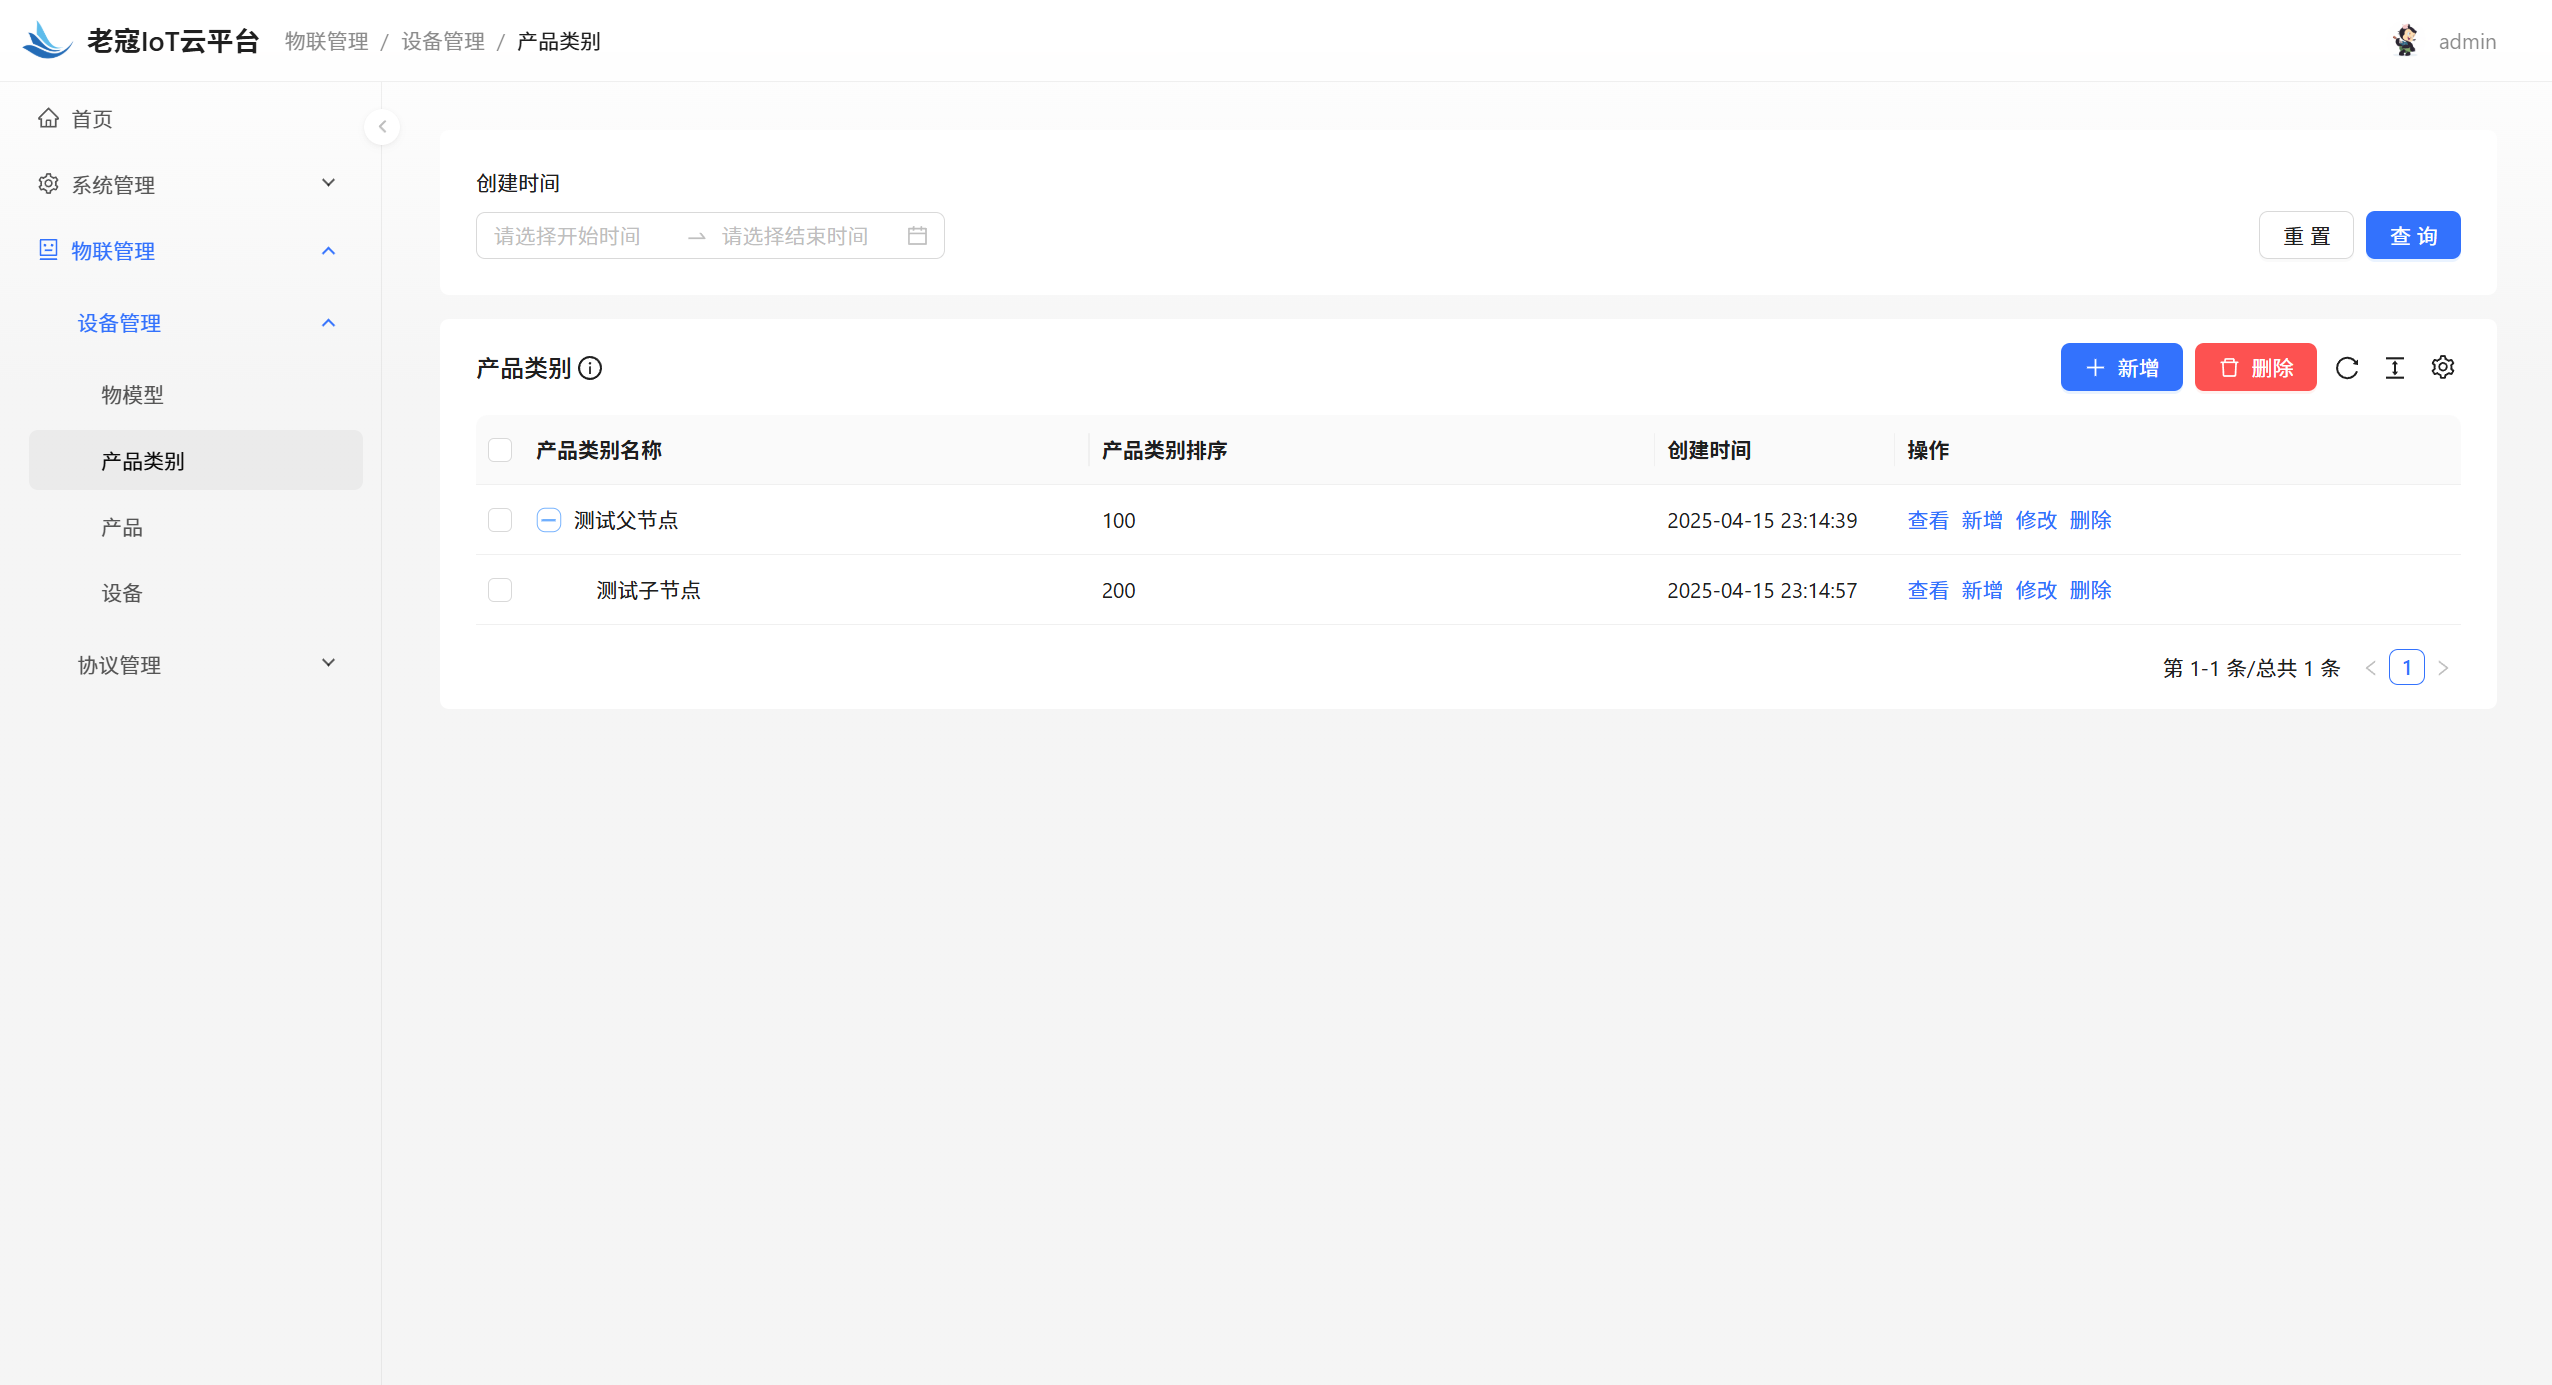
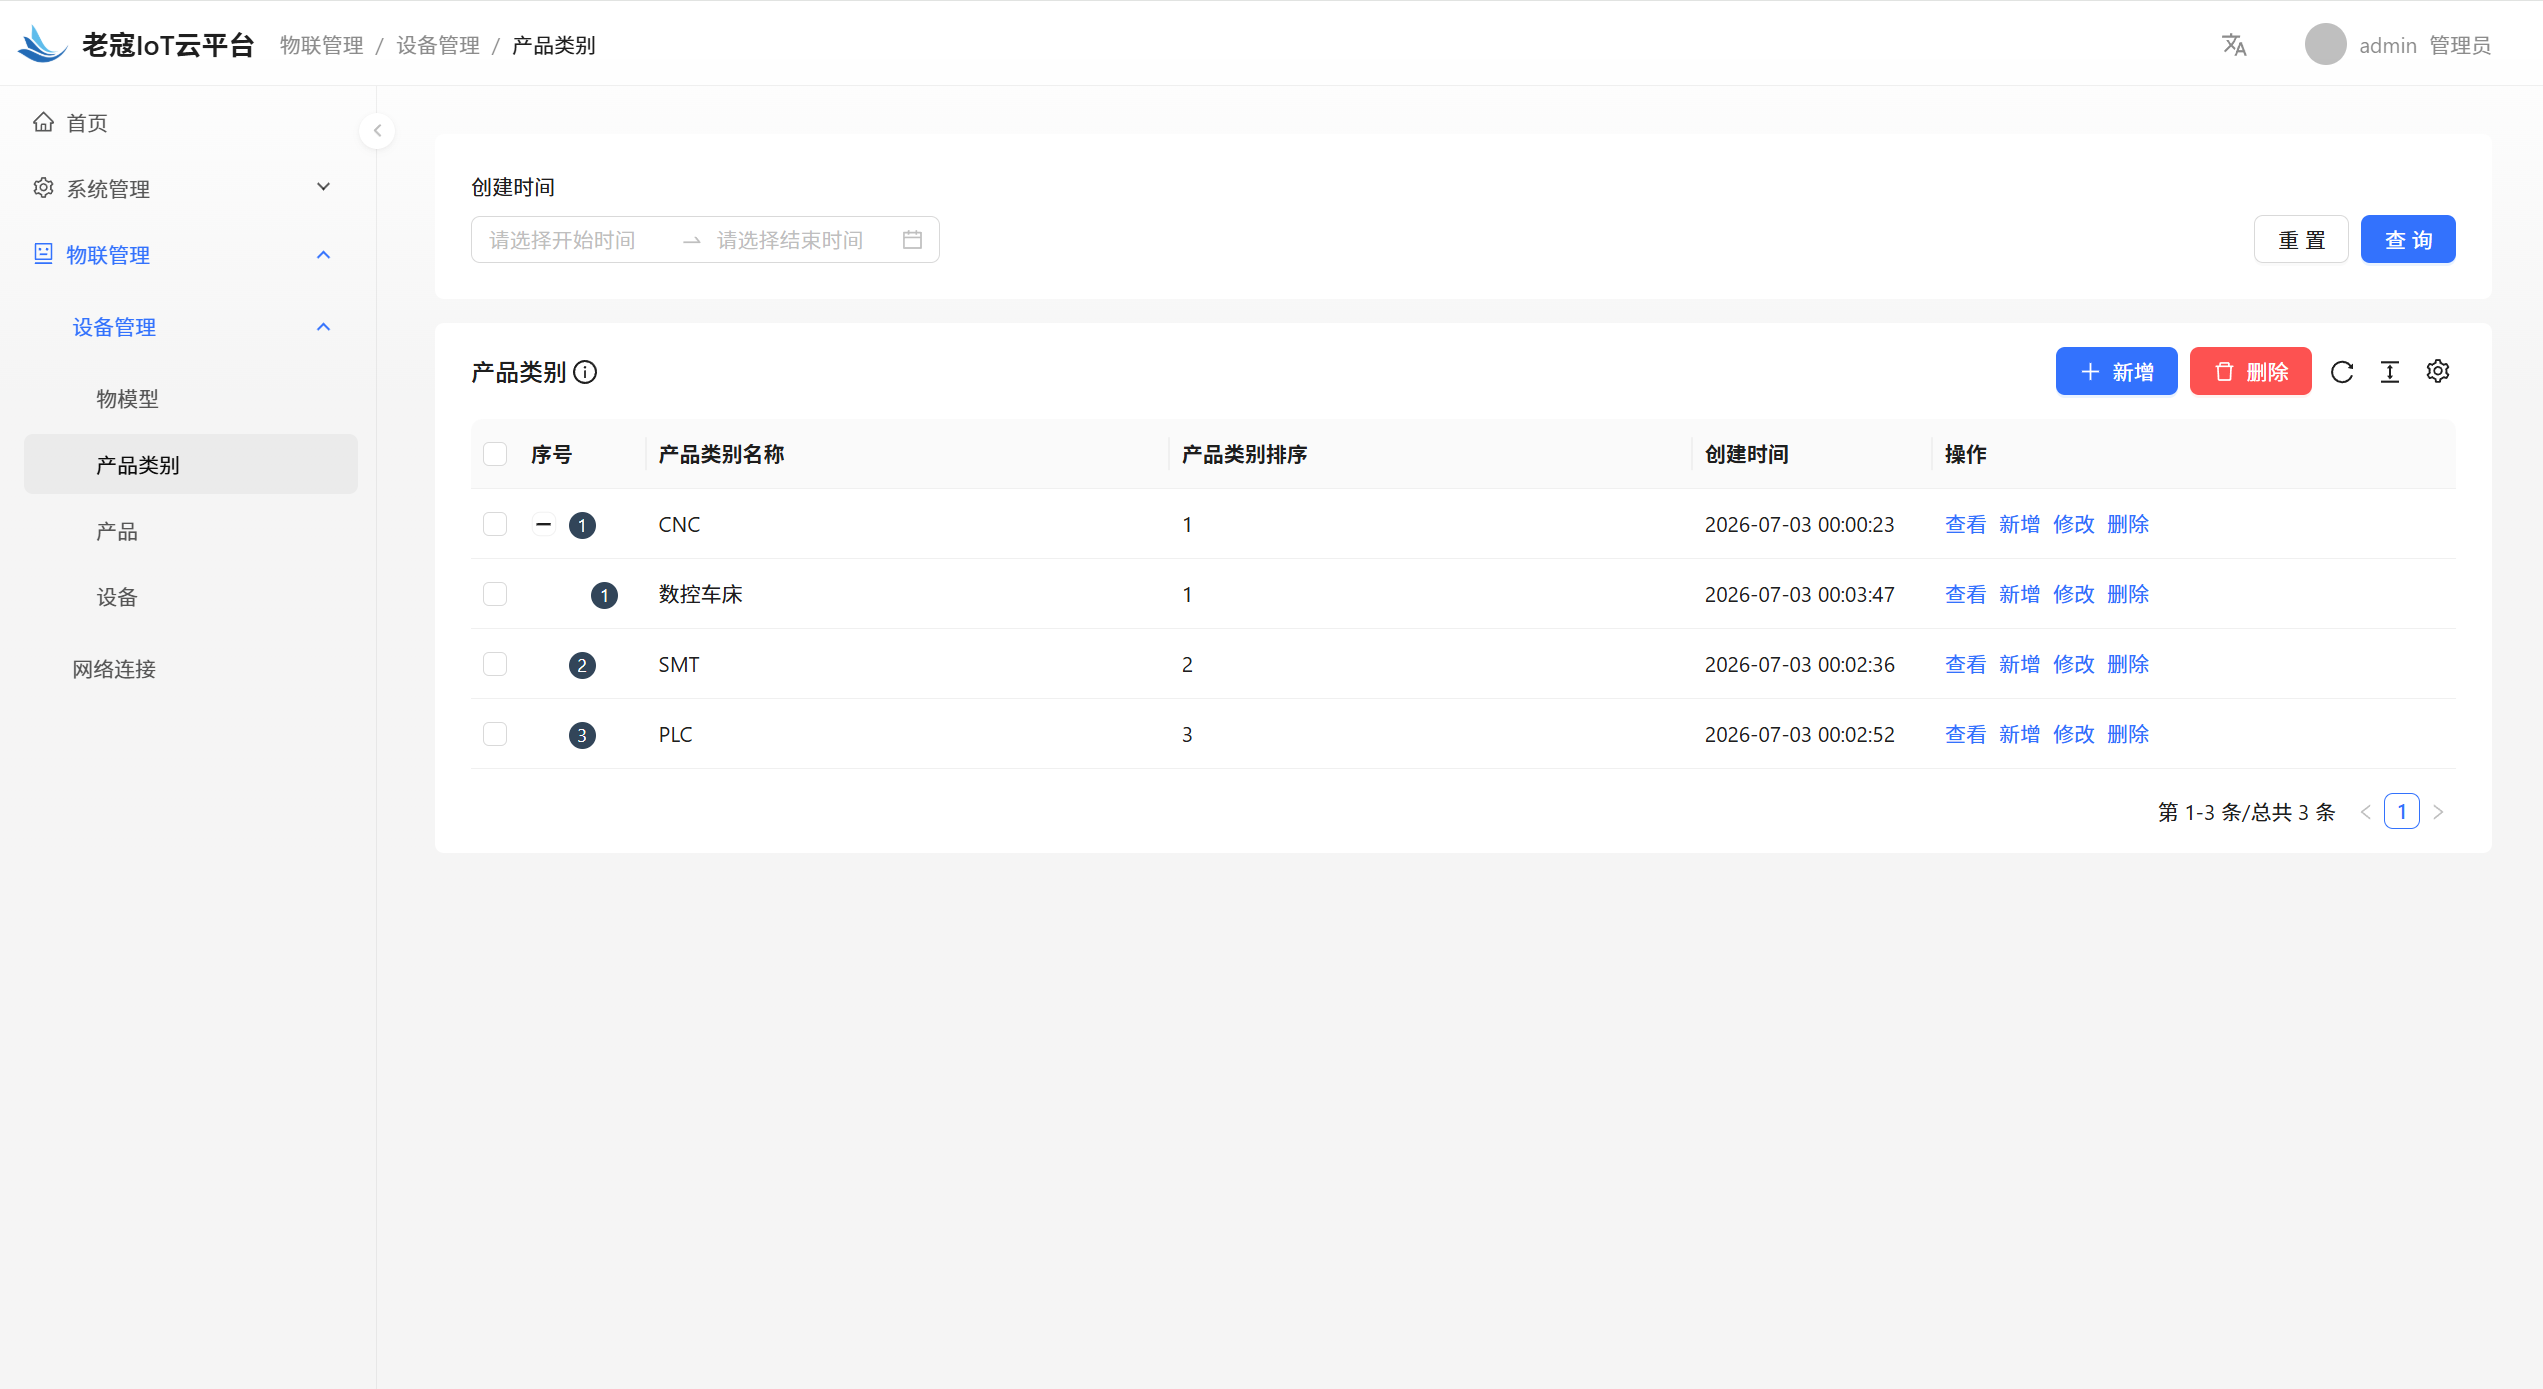
feat: 产品类别测试完毕

diff --git a/laokou-service/laokou-iot/laokou-iot-domain/src/main/java/org/laokou/iot/productCategory/model/entity/ProductCategoryE.java b/laokou-service/laokou-iot/laokou-iot-domain/src/main/java/org/laokou/iot/productCategory/model/entity/ProductCategoryE.java
@@ -23,12 +23,7 @@ import lombok.Builder;
 import lombok.EqualsAndHashCode;
 import lombok.Getter;
 import lombok.NoArgsConstructor;
-import lombok.Setter;
 import org.laokou.common.i18n.annotation.Entity;
-import org.laokou.common.i18n.common.IdGenerator;
-import org.laokou.iot.productCategory.model.enums.OperateType;
-import org.laokou.iot.productCategory.model.validator.ProductCategoryParamValidator;
-import org.springframework.beans.factory.annotation.Qualifier;
 
 /**
  *
@@ -65,37 +60,5 @@ public class ProductCategoryE {
 	 * 产品类别备注.
 	 */
 	private String remark;
-
-	@Setter
-	@Getter
-	private OperateType productCategoryOperateTypeEnum;
-
-	private final ProductCategoryParamValidator saveProductCategoryParamValidator;
-
-	private final ProductCategoryParamValidator modifyProductCategoryParamValidator;
-
-	private final IdGenerator idGenerator;
-
-	public ProductCategoryE(
-			@Qualifier("saveProductCategoryParamValidator") ProductCategoryParamValidator saveProductCategoryParamValidator,
-			@Qualifier("modifyProductCategoryParamValidator") ProductCategoryParamValidator modifyProductCategoryParamValidator,
-			IdGenerator idGenerator) {
-		super();
-		this.saveProductCategoryParamValidator = saveProductCategoryParamValidator;
-		this.modifyProductCategoryParamValidator = modifyProductCategoryParamValidator;
-		this.idGenerator = idGenerator;
-	}
-
-	public Long getPrimaryKey() {
-		return idGenerator.getId();
-	}
-
-	public void checkProductCategoryParam() {
-		switch (productCategoryOperateTypeEnum) {
-			case SAVE -> saveProductCategoryParamValidator.validateProductCategory(this);
-			case MODIFY -> modifyProductCategoryParamValidator.validateProductCategory(this);
-			default -> throw new UnsupportedOperationException("Unsupported operation");
-		}
-	}
 
 }

diff --git a/laokou-service/laokou-iot/laokou-iot-app/src/main/java/org/laokou/iot/productCategory/command/query/ProductCategoryTreeListQryExe.java b/laokou-service/laokou-iot/laokou-iot-app/src/main/java/org/laokou/iot/productCategory/command/query/ProductCategoryTreeListQryExe.java
@@ -44,7 +44,7 @@ public class ProductCategoryTreeListQryExe {
 		try {
 			DynamicDataSourceContextHolder.push(DSConstants.IOT);
 			List<ProductCategoryDO> list = productCategoryMapper.selectObjectList(qry);
-			ProductCategoryCO productCategory = TreeUtils.buildTreeNode(ProductCategoryConvertor.toClientObjs(list),
+			ProductCategoryCO productCategory = TreeUtils.buildTreeNode(ProductCategoryConvertor.toClientObjects(list),
 					ProductCategoryCO.class);
 			return Result.ok(productCategory.getChildren());
 		}